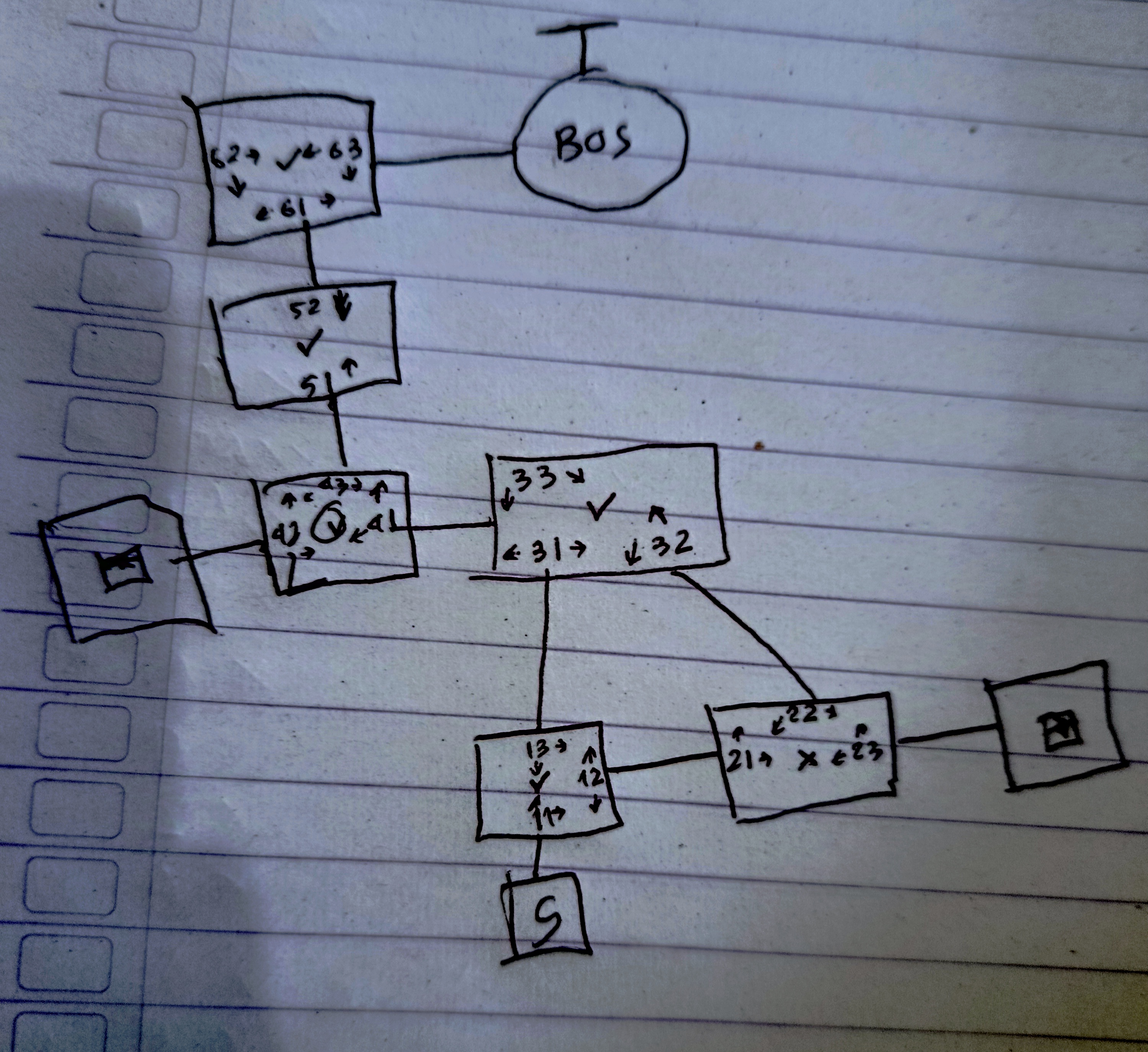
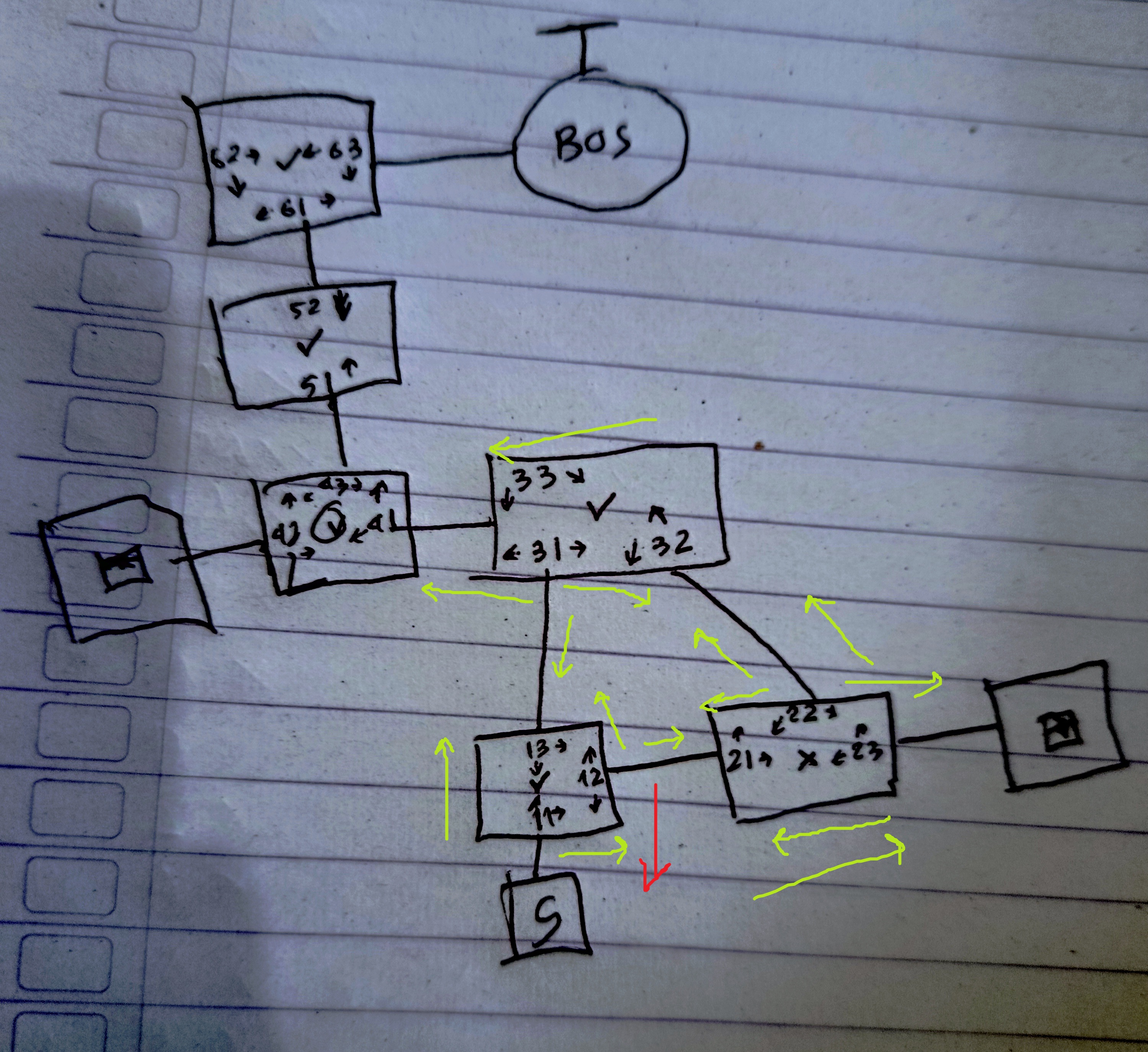
adding starting room

diff --git a/Stage.cs b/Stage.cs
@@ -4,6 +4,16 @@ namespace MyApp
     {
         static Dictionary<int, Room> map = new Dictionary<int, Room>
         {
+            [0] = new Room
+            {
+                Id = 0,
+                Description = "Pilih jalan yang ingin kamu lewati: \nKembali | Rest | Shop",
+                Paths = new Dictionary<string, int>
+                {
+                    ["kembali"] = 31
+                },
+                Encounter = () => Encounter.RoomZero()
+            },
             [11] = new Room
             {
                 Id = 11,
@@ -18,13 +28,24 @@ namespace MyApp
             [12] = new Room
             {
                 Id = 12,
-                Description = "Pilih jalan yang ingin kamu lewati: \nMaju | Kanan | Shop",
+                Description = "Pilih jalan yang ingin kamu lewati: \nKiri | Kanan | Shop",
                 Paths = new Dictionary<string, int>
                 {
                     ["kiri"] = 0,
                     ["kanan"] = 31
                 },
                 Encounter = () => Encounter.RandomEncounter()
+            },
+            [13] = new Room
+            {
+                Id = 13,
+                Description = "Pilih jalan yang ingin kamu lewati: \nMaju | Kiri | Shop",
+                Paths = new Dictionary<string, int>
+                {
+                    ["kiri"] = 21,
+                    ["maju"] = 0
+                },
+                Encounter = () => Encounter.ClearedEncounter()
             },
             [21] = new Room
             {
@@ -103,6 +124,16 @@ namespace MyApp
                     continue;
                 }
 
+                if (input == "rest")
+                {
+                    Console.Clear();
+                    Program.player.health = Program.player.maxHealth;
+                    Function.Print("Kamu beristirahat untuk memulihkan kembali tenagamu.",15);
+                    Console.ReadKey();
+                    Console.Clear();
+                    continue;
+                }
+
                 if (currentRoom.Paths.TryGetValue(input, out int nextPosition))
                 {
                     Program.player.position = nextPosition; // Move first
@@ -114,12 +145,13 @@ namespace MyApp
                     }
                     else
                     {
-                        Encounter.RandomEncounter(); // For repeated visits
+                        Encounter.ClearedEncounter(); // For repeated visits
                     }
                 }
                 else
                 {
                     Function.Print("Masukkan input sesuai pilihan!");
+                    Console.Clear();
                 }
             }
         }

diff --git a/Encounter.cs b/Encounter.cs
@@ -78,6 +78,15 @@ namespace MyApp
             Function.Print("Kamu melangkah kembali ke ruangan sebelumnya.", 15);
         }
 
+        public static void RoomZero()
+        {
+            Console.Clear();
+            Function.Print("Kamu melangkah ke ruangan yang ternyata terlihat familiar.", 15);
+            Function.Print("Ruangan ini adalah ruangan pertama dimana kamu pertama sekali bangun.", 15);
+            Console.ReadKey();
+            Console.Clear();
+        }
+
         public static void BasicEncounter()
         {
 
